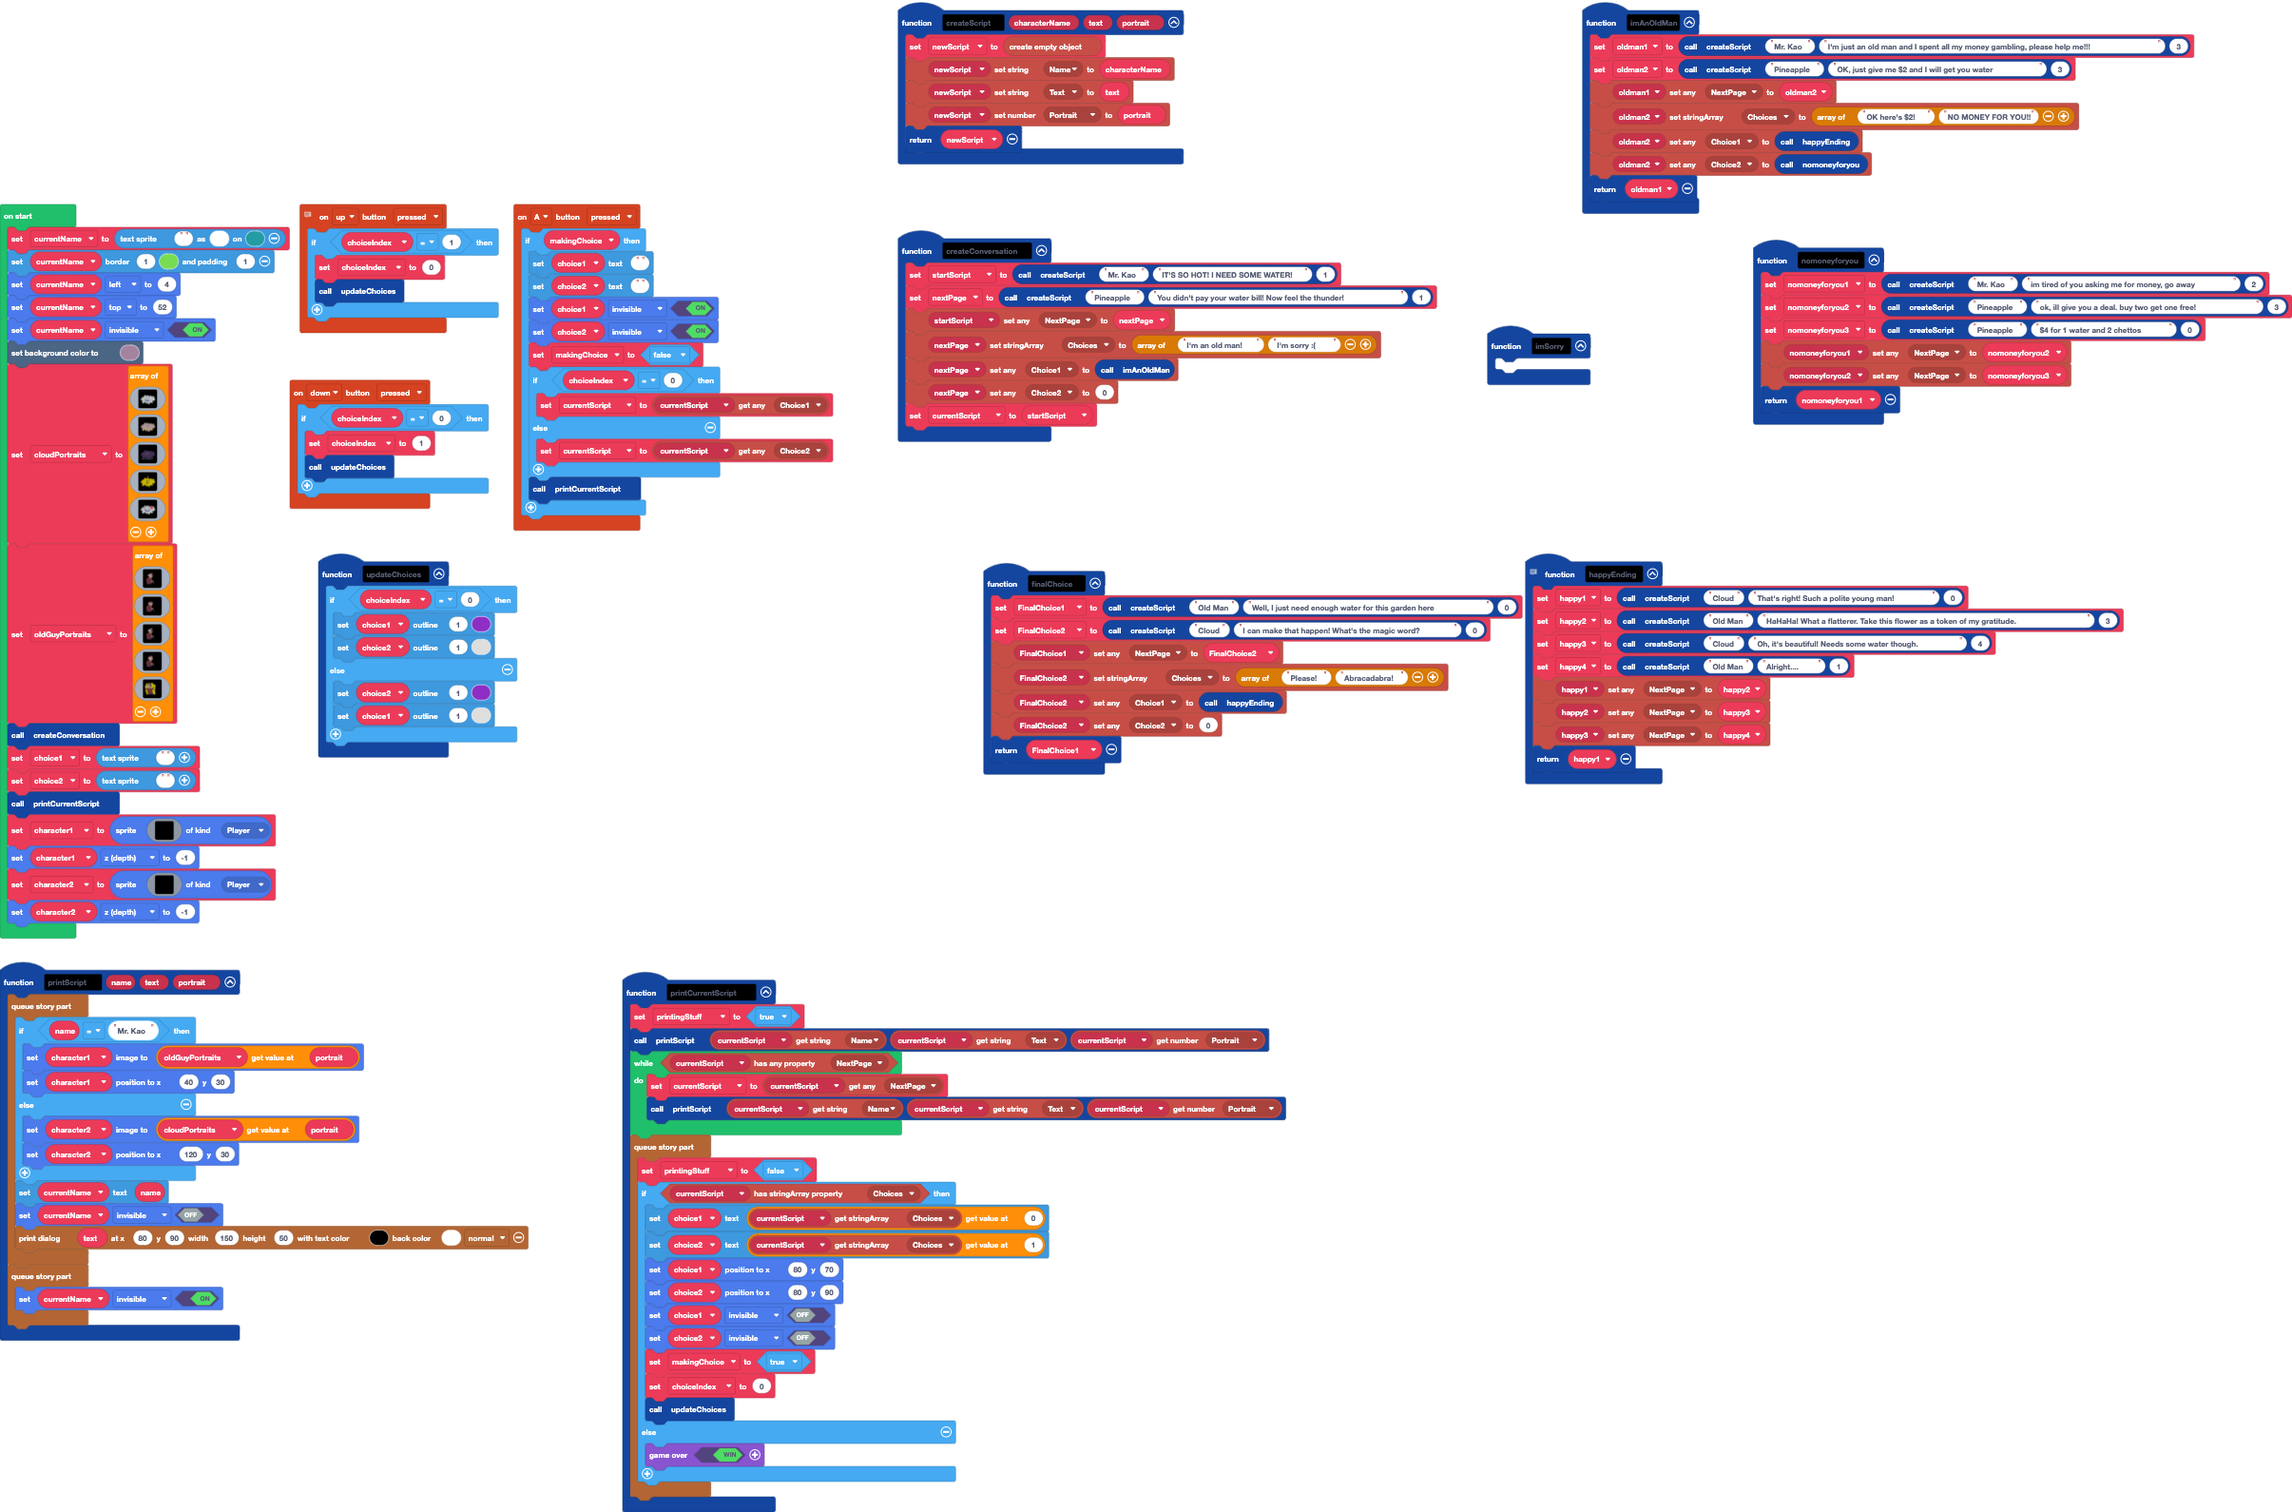
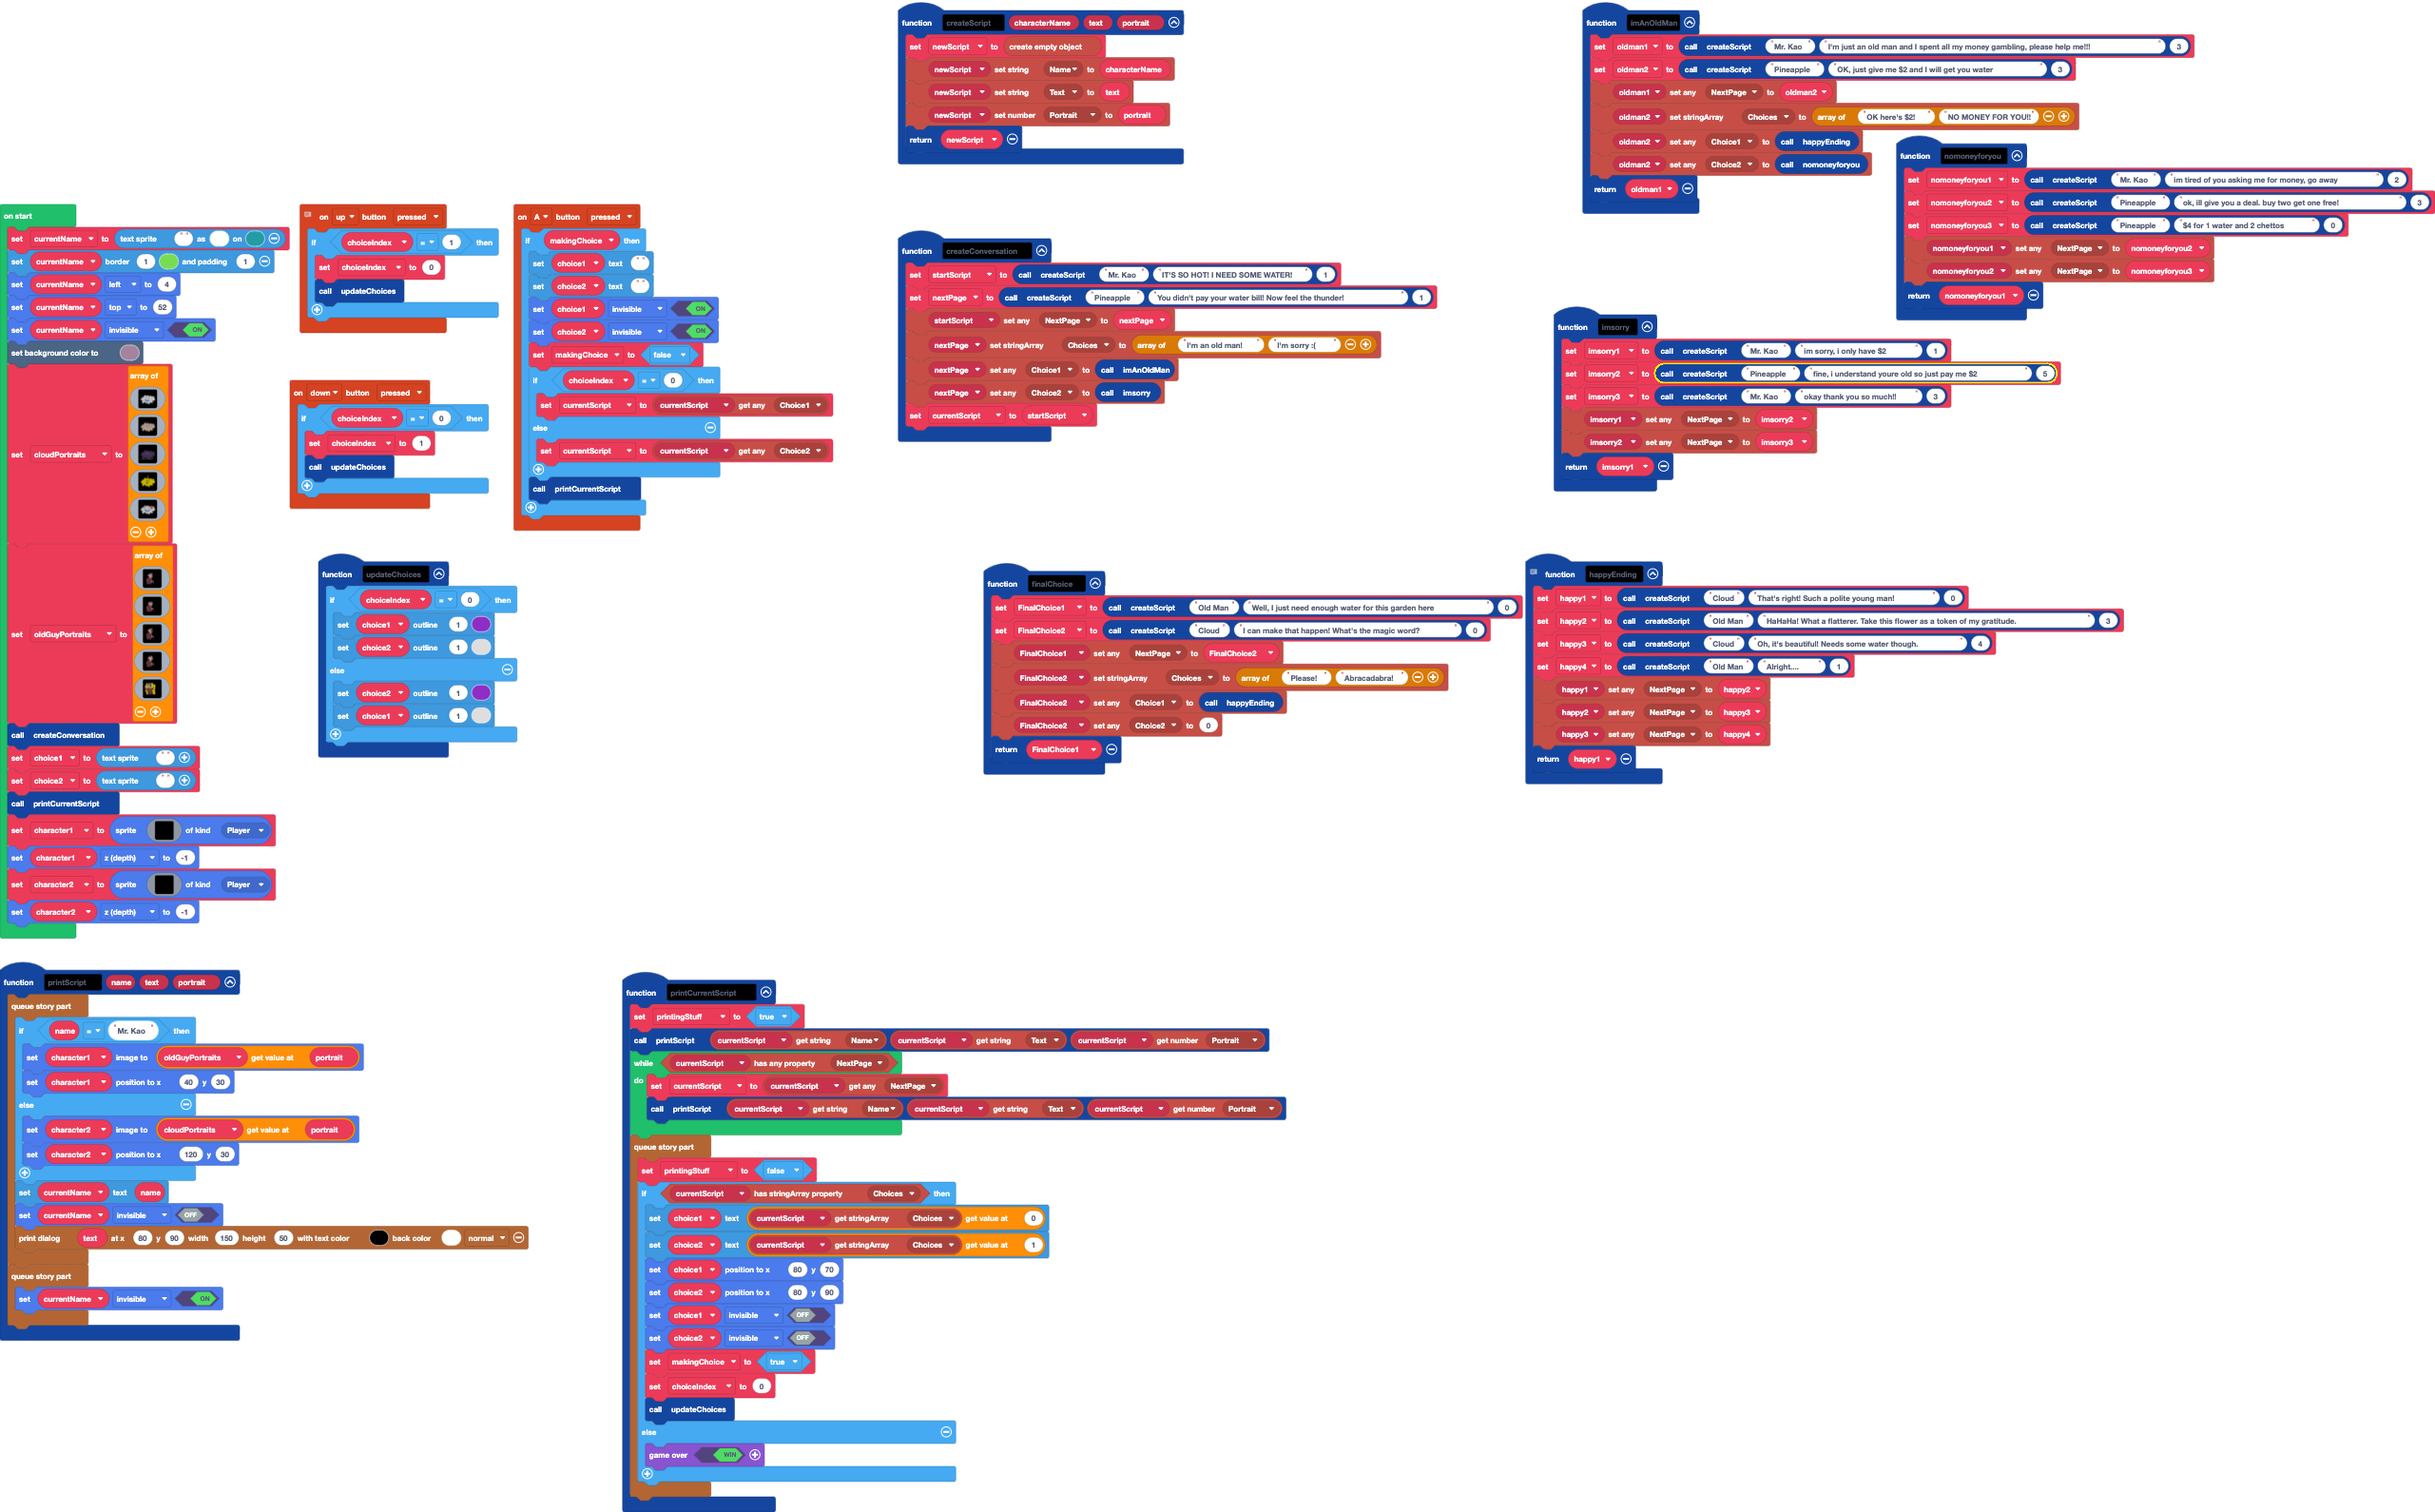
finished im sorry

diff --git a/main.ts b/main.ts
@@ -43,9 +43,6 @@ function happyEnding () {
     blockObject.setAnyProperty(happy3, AnyProp.NextPage, happy4)
     return happy1
 }
-function imSorry () {
-	
-}
 // microsoft/arcade-block-objects
 // 
 // riknoll/arcade-story
@@ -61,7 +58,7 @@ function createConversation () {
     blockObject.setAnyProperty(startScript, AnyProp.NextPage, nextPage)
     blockObject.setStringArrayProperty(nextPage, StrArrayProp.Choices, ["I'm an old man!", "I'm sorry :("])
     blockObject.setAnyProperty(nextPage, AnyProp.Choice1, imAnOldMan())
-    blockObject.setAnyProperty(nextPage, AnyProp.Choice2, 0)
+    blockObject.setAnyProperty(nextPage, AnyProp.Choice2, imsorry())
     currentScript = startScript
 }
 function printScript (name: string, text: string, portrait: number) {
@@ -138,6 +135,14 @@ function printCurrentScript () {
         }
     })
 }
+function imsorry () {
+    imsorry1 = createScript("Mr. Kao", "im sorry, i only have $2", 1)
+    imsorry2 = createScript("Pineapple", "fine, i understand youre old so just pay me $2", 5)
+    imsorry3 = createScript("Mr. Kao", "okay thank you so much!!", 3)
+    blockObject.setAnyProperty(imsorry1, AnyProp.NextPage, imsorry2)
+    blockObject.setAnyProperty(imsorry2, AnyProp.NextPage, imsorry3)
+    return imsorry1
+}
 function imAnOldMan () {
     oldman1 = createScript("Mr. Kao", "I'm just an old man and I spent all my money gambling, please help me!!!", 3)
     oldman2 = createScript("Pineapple", "OK, just give me $2 and I will get you water", 3)
@@ -174,6 +179,9 @@ let nomoneyforyou2: blockObject.BlockObject = null
 let nomoneyforyou1: blockObject.BlockObject = null
 let oldman2: blockObject.BlockObject = null
 let oldman1: blockObject.BlockObject = null
+let imsorry3: blockObject.BlockObject = null
+let imsorry2: blockObject.BlockObject = null
+let imsorry1: blockObject.BlockObject = null
 let printingStuff = false
 let FinalChoice2: blockObject.BlockObject = null
 let FinalChoice1: blockObject.BlockObject = null
